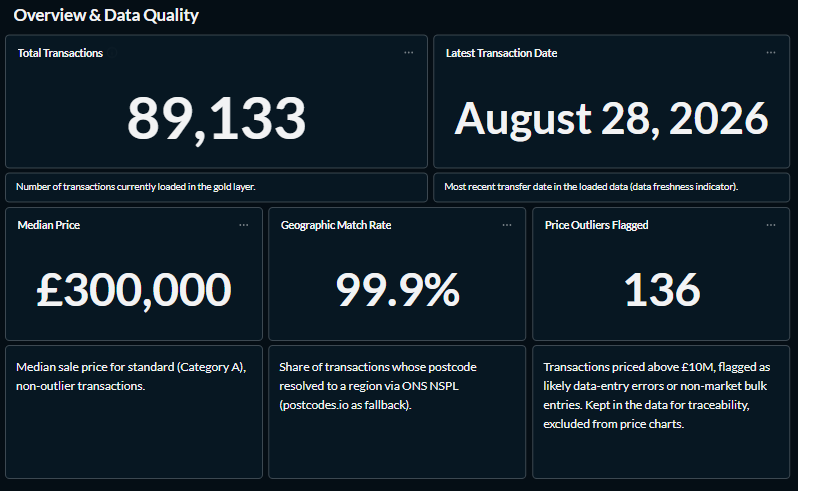
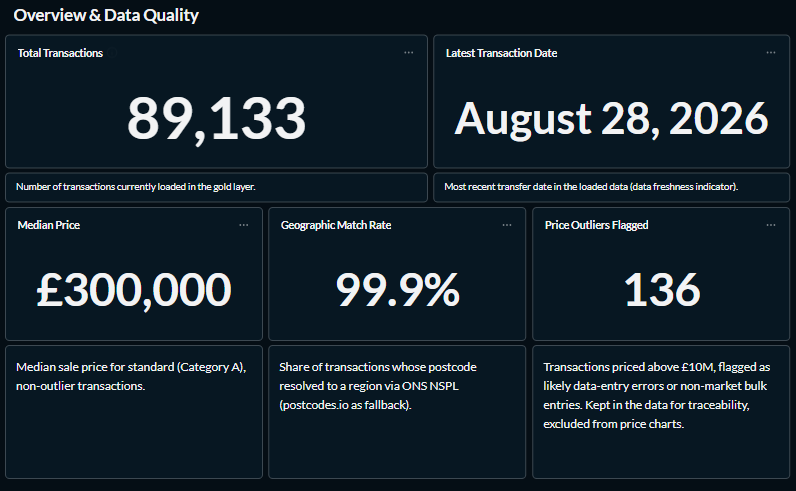
edit dashboard

diff --git a/dashboard.md b/dashboard.md
@@ -1,11 +1,12 @@
 # UK Property Market Intelligence Dashboard
-Built on HM Land Registry Price Paid Data, geographically enriched with ONS and postcodes.io reference data, transformed with dbt (bronze → silver → gold) and orchestrated by Airflow. All figures come from gold.fct_property_prices. Price views use standard (Category A) transactions only, with likely data-entry outliers (over £10M) excluded.
+Built on HM Land Registry Price Paid Data, geographically enriched with ONS and postcodes.io reference data, transformed with dbt (Bronze → Silver → Gold), and orchestrated by Airflow. All figures are sourced exclusively from `gold.fct_property_prices`. Price views use standard (Category A) transactions only, with likely data-entry outliers (over £10M) excluded.
 
-**Key findings** (snapshot as of 2026-10-08, figures change as the pipeline loads new months). Coverage is England and Wales, the jurisdiction of HM Land Registry.
+## Executive Summary & Key Findings
+*(Snapshot as of 2026-10-08; figures dynamically update as the pipeline ingests new monthly data. Geographic scope covers England and Wales, aligning with HM Land Registry jurisdiction).*
 
-- **Data scale and quality:** The gold layer holds 89,133 transactions dated up to August 2026, with a 99.9% geographic match rate. The median sale price for standard (Category A), non-outlier transactions is £300,000. Transactions above £10M are flagged as likely data-entry errors or bulk entries, retained for audit traceability, and excluded from price charts.
-- **Regional price differences:** London has the highest prices in the data (detached median close to £1M) and a flat-heavy housing mix (about 52% of its standard transactions). Transaction counts are highest in the South East and North West, which largely reflects region size rather than market strength.
-- **Growth districts:** Ranked by compound annual growth in average price, PR3 leads at over 11% per year between 2024 and 2026 (9 transactions in 2024, 55 in 2026; 2026 data runs only to August). With a two-year window and small samples at the start of it, the ranking is sensitive to individual sales. It reflects historical appreciation, not a forecast.
+- **Data scale and quality:** The Gold layer holds **89,133 transactions** (dated up to August 2026) with an exceptional **99.9% geographic match rate**. The national median sale price for standard (Category A), non-outlier transactions stands at **£300,000**. Extreme entries (>£10M) are flagged as potential data-entry errors or bulk sales, preserved for audit traceability, and isolated from price charts.
+- **Regional price differences:** **London** commands the highest valuations in the dataset (detached median prices approaching £1M) alongside a distinct urban housing mix heavily skewed toward flats/maisonettes (about 52% of regional volume). High transaction counts in the **South East** and **North West** primarily reflect regional population size rather than relative market velocity.
+- **Growth districts:** Ranked by compound annual growth rate (CAGR) in average price, **PR3** (Preston area) leads at over **11% per year** between 2024 and 2026 (9 transactions in 2024 vs. 55 in 2026; noting 2026 data runs through August). Given the short two-year window and modest initial sample size, this ranking is sensitive to individual property mix shifts. It measures historical appreciation within the loaded data window, not a market forecast.
 
 ## Configuration & Scope
 
@@ -15,7 +16,7 @@ Built on HM Land Registry Price Paid Data, geographically enriched with ONS and 
   2. Market Trends and Hotspots
   3. Market Segmentation
 * **Formatting:** Price metrics are explicitly formatted as British Pounds (GBP, Currency style).
-* **Source Scope & Data Maturity:** The pipeline ingests HM Land Registry's monthly rolling update files (containing current-month transactions and retrospective amendments) rather than the entire historical archive (1995–present). Consequently, metrics reflect the accumulated data loaded by the pipeline to date, and earlier periods feature thinner volumes until a full historical backfill is executed..
+* **Source Scope & Data Maturity:** The pipeline ingests HM Land Registry's monthly rolling update files (containing current-month transactions and retrospective amendments) rather than the entire historical archive (1995–present). Consequently, metrics reflect the accumulated data loaded by the pipeline to date, and earlier periods feature thinner volumes until a full historical backfill is executed.
 
 | Convention | Applied to |
 |---|---|
